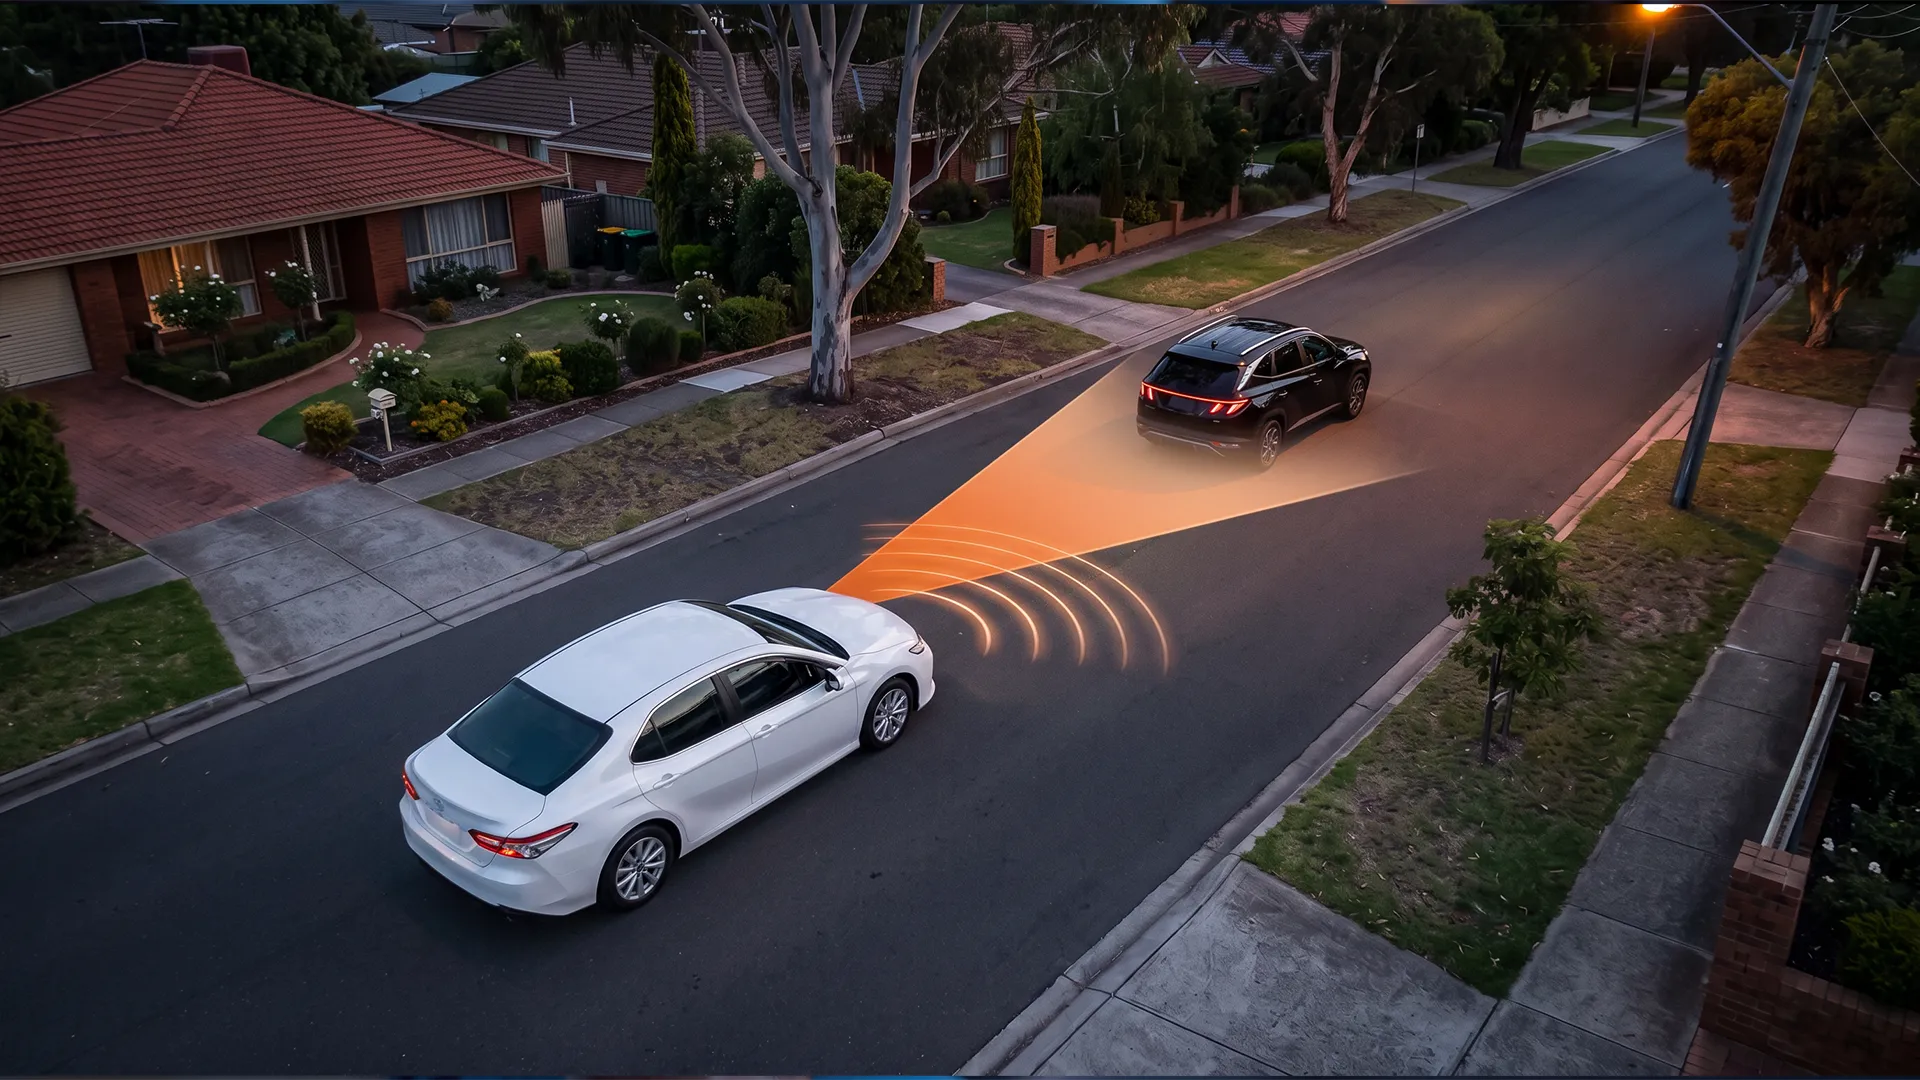
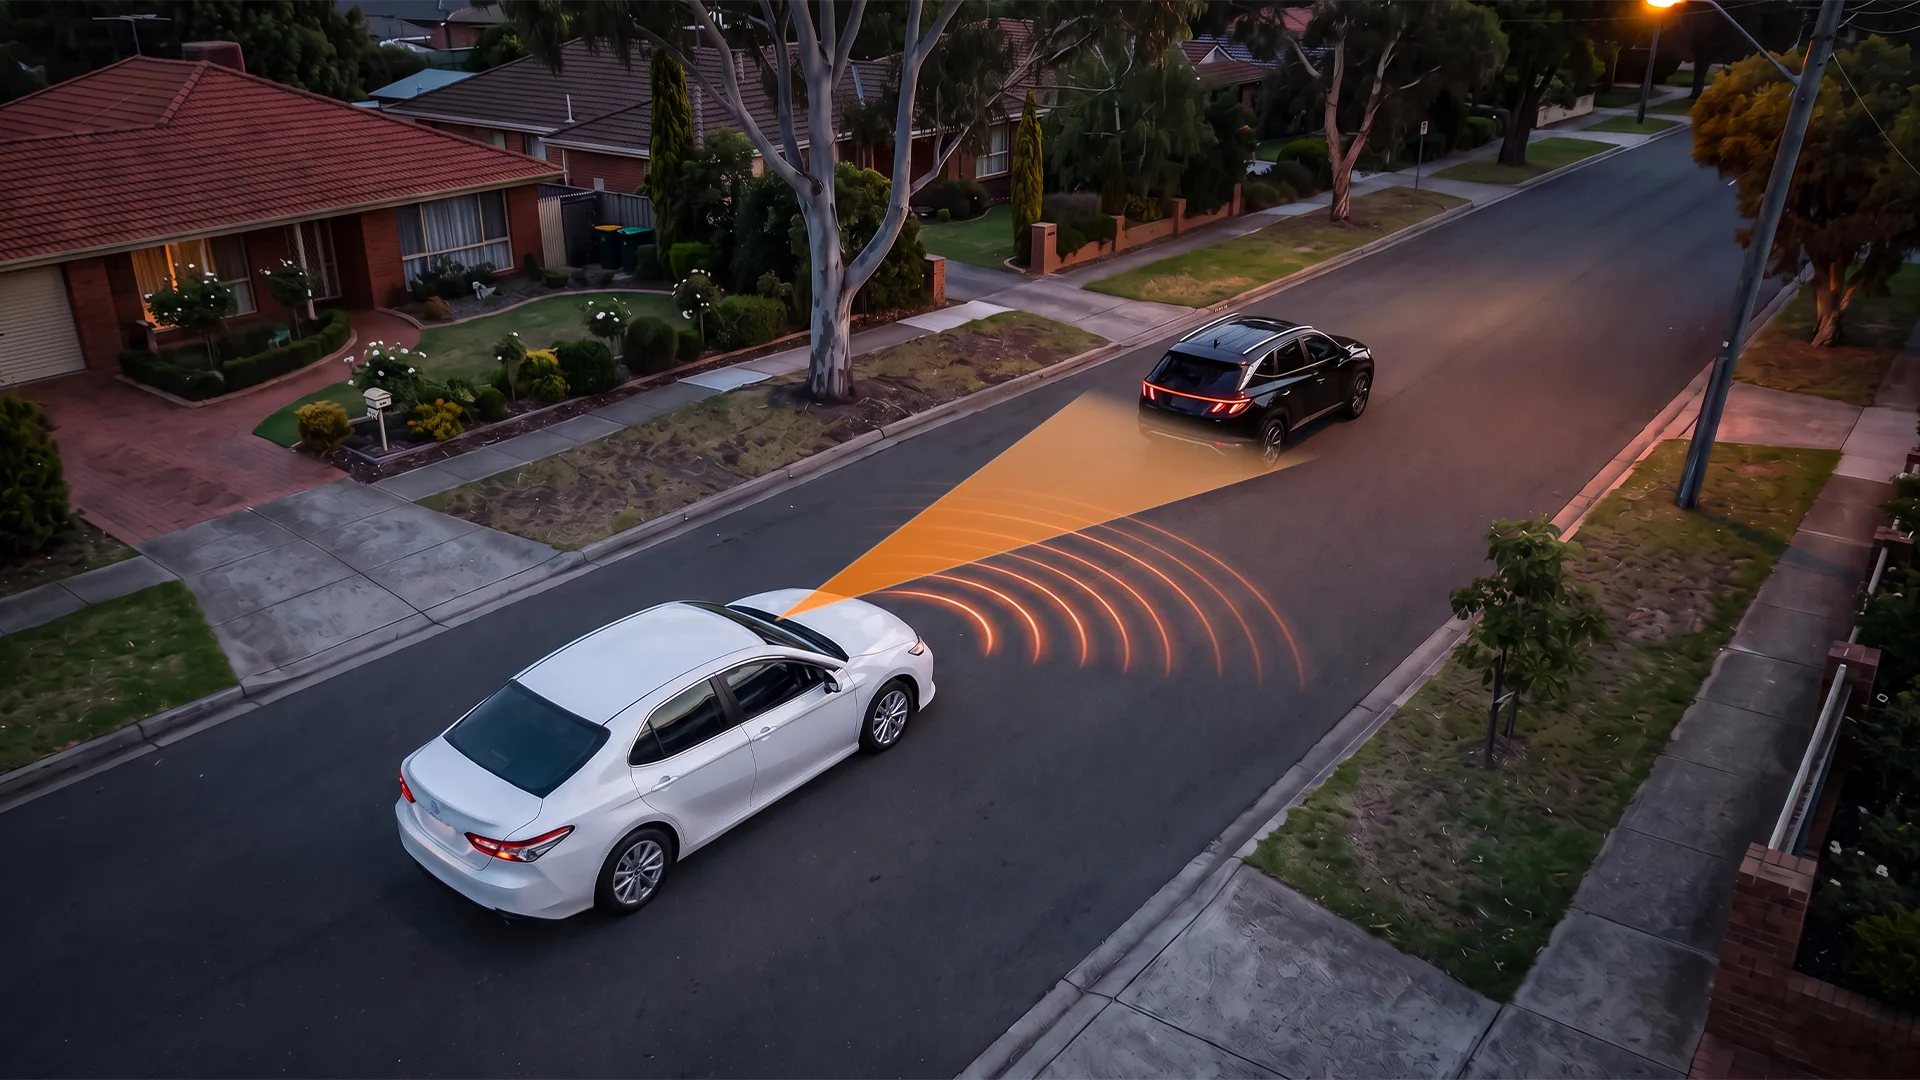
media: GX35 gets its own second-eyes art
Replaces the borrowed placeholder with the supplied GX35 version — same
aerial dusk scene, but the ADAS cone is redrawn wider with more arcs and the
old letterbox edges are gone. Converted at q82: 3.35 MB PNG -> 213 KB WebP.

The TODO(gx35-asset) tag on that ref is dropped; the page now ships its own
asset there.

diff --git a/app/gx35/page.tsx b/app/gx35/page.tsx
@@ -253,7 +253,7 @@ const mDualVision: MediaSectionData = {
 const mSecondEyes: MediaSectionData = {
   title: "A second set of eyes.",
   description: "ADAS Plus watches the road with you, and speaks up before you need to.",
-  image: "/gx35/second-eyes.webp", // TODO(gx35-asset)
+  image: "/gx35/second-eyes.webp", 
   aspectRatio: "2160/1484",
   theme: "dark",
   heightVh: 100,
